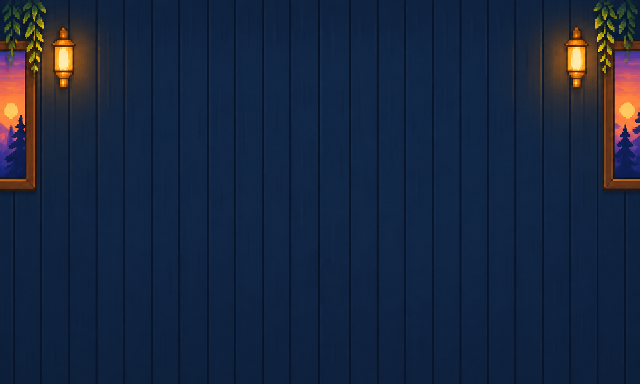
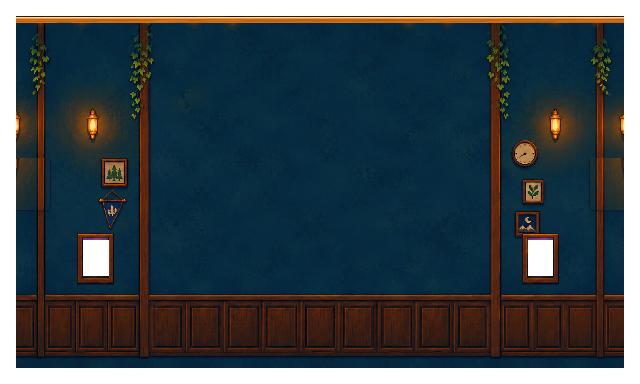
Frame clubhouse as a house with roof, ground and parallax windows

diff --git a/crates/lobby/tools/reskin/build_clubhouse.py b/crates/lobby/tools/reskin/build_clubhouse.py
@@ -37,7 +37,27 @@ extract((250,10,585,518),(64,100),'door.png')
 ledge=extract((805,220,1395,360),(96,24),'ledge.png')
 extract((155,610,710,950),(208,128),'tv.png')
 extract((930,495,1275,985),(96,128),'cupboard.png')
-Image.open(SRC/'wall-source.png').convert('RGB').resize((640,384),NEAREST).save(OUT/'wall.png')
+wall=Image.open(SRC/'wall-source-v2.png').convert('RGBA')
+# Place extracted window frames inside the playable room, not behind its side
+# colliders. Restore the original frame locations with quiet wall from the same
+# export; this is deterministic compositing of reviewed artwork.
+for box,position in [((33,400,127,530),(195,590)),((1492,400,1585,530),(1320,590))]:
+    frame=wall.crop(box)
+    frame.paste((0,0,0,0),(15,16,box[2]-box[0]-14,107))
+    wall.paste(wall.crop((box[0],340,box[2],390)).resize(frame.size,NEAREST),(box[0],box[1]))
+    wall.paste(frame,position)
+wall=wall.resize((640,384),NEAREST)
+# House exterior matches solid side walls x=32..1248 and y=32..736.
+# Keep outside pixels transparent: the landscape, not enlarged wallpaper,
+# fills the surrounding screen. Use the approved oak ledge as a roof fascia.
+house=Image.new('RGBA',(640,384))
+house.paste(wall.crop((16,16,624,368)),(16,16))
+fascia=ledge.crop((4,0,92,7)).resize((608,7),NEAREST)
+house.alpha_composite(fascia,(16,16))
+house.save(OUT/'wall.png')
+sky=Image.open(SRC/'skyline-source.png').convert('RGB')
+# Frame the roofline through the small windows, not just empty upper sky.
+sky.resize((640,384),NEAREST).save(OUT/'skyline.png')
 # Keep the exact 17x5 grid. Make a separate atlas, used only by the clubhouse.
 original = ROOT/'crates/lobby/assets/map/resources/ground_rock.png'
 atlas=Image.open(original).convert('RGBA')
@@ -71,3 +91,17 @@ for y in range(3):
         patch=cab.crop((sx[x],sy[y],sx[x+1],sy[y+1]))
         wide.paste(patch.resize((dx[x+1]-dx[x],dy[y+1]-dy[y]),NEAREST),(dx[x],dy[y]))
 wide.save(OUT/'cabinet-wide.png')
+
+# Exterior sprites retain generated alpha. Black-matte fallback is restricted
+# to export-background pixels (the art uses blue/umber, never pure black).
+def exterior(name):
+    im=Image.open(SRC/(name+'-source.png')).convert('RGBA')
+    a=np.array(im)
+    a[(a[:,:,:3].max(2)<8),3]=0
+    im=Image.fromarray(a)
+    return im.crop(im.getbbox())
+exterior('roof').resize((624,48),NEAREST).save(OUT/'roof.png')
+ground=exterior('ground').resize((512,128),NEAREST)
+strip=Image.new('RGBA',(2048,128))
+for x in range(0,2048,512): strip.paste(ground,(x,0))
+strip.save(OUT/'ground.png')

diff --git a/crates/lobby/src/core/camera.rs b/crates/lobby/src/core/camera.rs
@@ -159,7 +159,7 @@ fn camera_controller(
 
     // With nobody in the room, show the room. Previously `min`/`max` were left
     // at their sentinels, so `size` came out negative and clamped to
-    // `min_camera_size` — the camera sat zoomed right in on a corner of an
+    // `min_camera_size` â€” the camera sat zoomed right in on a corner of an
     // empty lobby, which is the least useful thing it could be looking at.
     let (mut middle_point, size) = if subject_count == 0 {
         (map_size * 0.5, map_size)
@@ -194,7 +194,8 @@ fn camera_controller(
 /// Fit the whole room with a small border, preserving geometry on any display.
 fn lobby_frame(map_size: Vec2, viewport: Vec2) -> (Vec2, f32) {
     let aspect = viewport.x.max(1.0) / viewport.y.max(1.0);
-    let padded = map_size + Vec2::splat(24.0);
+    // Leave room for the roof and soil beyond the playable interior.
+    let padded = map_size + Vec2::new(24.0, 192.0);
     (map_size * 0.5, padded.y.max(padded.x / aspect))
 }
 
@@ -250,8 +251,11 @@ fn camera_parallax(
     for (_ent, (transform, bg)) in entities.iter_with((&mut transforms, &parallax_bg_sprites)) {
         // Keep the gameplay camera's full-room framing. Only enlarge the artwork
         // (uniformly, like CSS cover), so no clear-color border is exposed.
+        // Depth-zero architecture is anchored to map geometry. Its transparent
+        // exterior/windows reveal the covering landscape instead of stretching
+        // the house beyond its colliders.
         let center = Vec2::new(bg.meta.offset.x, map_size.y / 2.0 + bg.meta.offset.y);
-        let scale = if lobby_mode.0 {
+        let scale = if lobby_mode.0 && bg.meta.depth > 0.0 {
             background_cover_scale(bg.meta.size, bg.meta.scale, view_size,
                 center - camera_transform.translation.truncate())
         } else { bg.meta.scale };

diff --git a/crates/lobby/src/core/map.rs b/crates/lobby/src/core/map.rs
@@ -203,6 +203,8 @@ fn spawn_map(
     // Spawn parallax backgrounds
     for layer in &map.background.layers {
         for i in -1..=1 {
+            // A depth-zero layer is fixed architecture, not repeating scenery.
+            if layer.depth == 0.0 && i != 0 { continue; }
             let ent = entities.create();
             sprites.insert(
                 ent,

diff --git a/docs/art/evening-clubhouse/README.md b/docs/art/evening-clubhouse/README.md
@@ -21,3 +21,19 @@ Production background asset for the evening clubhouse 2D platform game in refere
 
 ### Props
 Produce a clean production sprite atlas on genuinely transparent alpha background using the approved evening clubhouse objects from reference. Four isolated objects in a 2 by 2 grid with very generous transparent padding, no overlap and no labels. TOP LEFT: front-facing arched oak exit door with warm amber round window, no mat. TOP RIGHT: long straight horizontal oak stepping ledge with two short front-facing brackets, flat front elevation no top or side perspective. BOTTOM LEFT: front-facing wide television outer frame only, thin midnight blue metal frame, two short feet, screen interior pure dark navy, no console. BOTTOM RIGHT: front-facing oak cupboard outer frame, portrait-shaped tall rectangular dark empty center opening occupying almost all cupboard area, thin oak side pillars and cornice and plinth; no books no drawers no compartments. All match reference oak material and chunky deliberate pixel art. Every object in strict front elevation. Sparse controlled pixel grain, crisp silhouette, top-left edge highlights, no shadows outside silhouette, NO blur or antialiasing, NO background, NO fake transparency checkerboard. These are separate movable game sprites for a 2D platformer.
+
+## Wall v2: detail and scale correction
+
+The user found the first wall monotonous and its fixtures oversized. Built-in image_gen edit using the enriched wall study as reference; selected output is wall-source-v2.png. Runtime export stays 640x384 with the same cover behavior, so no exposed margins or changes to foreground physics.
+
+Prompt: Revise the production pixel-art game back wall for much smaller environmental detail scale. Keep the full-bleed 5:3 image, cozy midnight teal/dark oak/amber palette and flat front elevation. Reduce decorative elements to half their previous width and height. Use small fully visible sunset windows, four tiny amber lanterns, small clock and pictures, thin timber uprights, many small wainscot panels at the bottom, fine fairy lights and modest trailing plants. Preserve quiet central space for the room sign, restrained texture and amber light pools. No floor, furniture, platforms, doors, text or QR. Use crisp pixel clusters suitable for 640x384 output.
+
+## Freestanding house and window parallax
+
+The wall is now RGBA. Its exterior mask follows the map shell (world x=32..1248, y=32..736), with a thin oak fascia at the top. Window frames are repositioned inside those bounds so side-wall colliders do not obscure them. Two transparent window apertures reveal skyline.png. The depth-zero wall stays at map scale; only the deeper outside layer uses camera-cover scaling. Thus the house keeps its proportions while landscape fills wide or tall displays. Existing background parallax speed is [0.12, 0.08] and skyline depth is 2; motion is camera-relative, not an idle animation.
+
+Skyline generated with built-in image_gen. Prompt: Production pixel-art full-bleed 5:3 evening skyline from a cozy clubhouse: lavender and blue sky, coral amber horizon, modest town rooftops with a few warm windows, distant wooded hills, sparse clouds and first stars. Straight-on side view, deliberate chunky pixels, restrained detail at 640x384. No foreground, room, window frames, furniture, text or giant sun/moon. This separate scenery layer is rendered behind the transparent house and windows. Source retained as skyline-source.png; the exporter frames the roofline for the small apertures.
+
+## Roof and ground
+
+Separate fixed sprites complete the cutaway house: a low slate-blue gabled roof (624x48 at 2x, eaves at world y=736) and a repeating grass/soil strip beneath the foundation. They add no collision surfaces. The lobby camera reserves 192 world pixels of vertical overscan for roof and ground. Roof/ground sources are retained; built-in image_gen prompts requested flat side/front elevation, muted slate/oak for the roof and moss-green/umber for soil, crisp low-resolution pixel clusters, transparent exterior, no perspective, text or extra furniture. Ground was requested horizontally seamless with level grass top and soil extending to the bottom. The exporter preserves alpha and removes pure-black export matte only when present.
